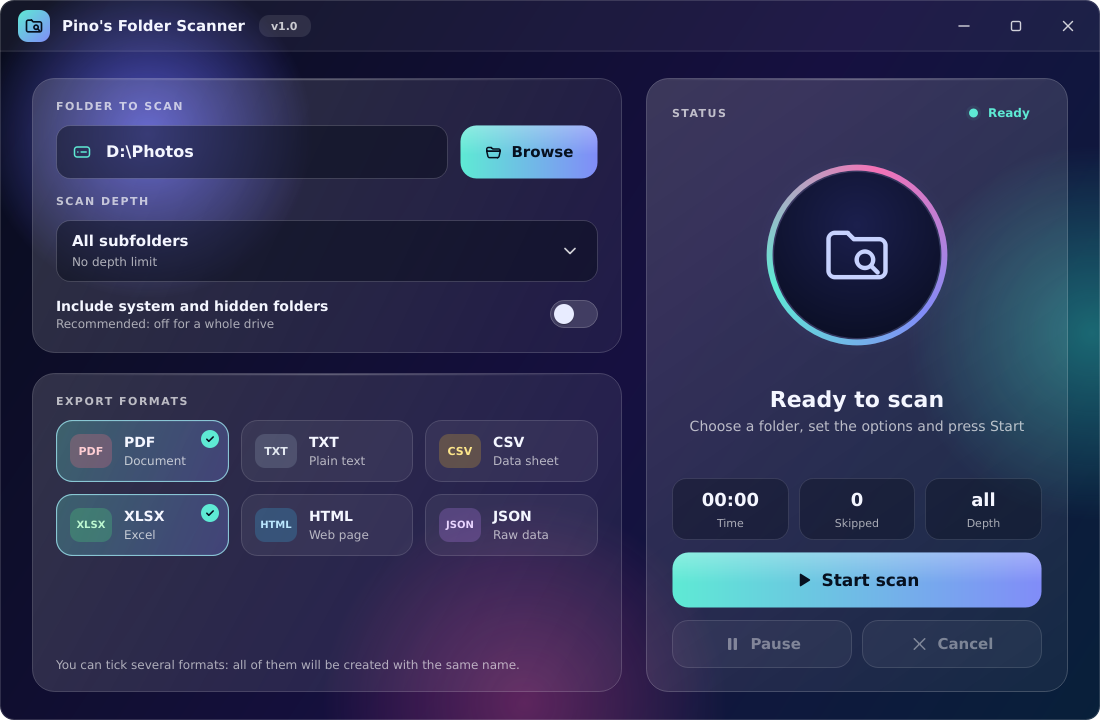
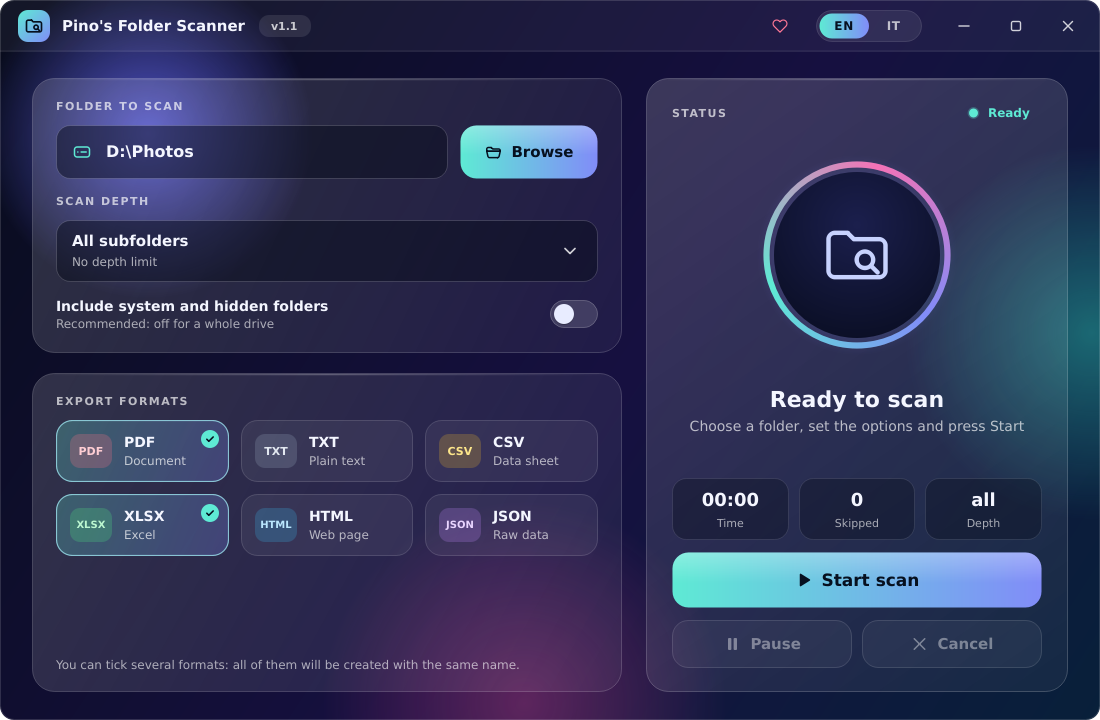
Mark 1.1 as released: README, changelog, roadmap and screenshots

diff --git a/README.md b/README.md
@@ -20,6 +20,8 @@ Pick a folder, choose how deep to look, tick the formats you want, press **Start
 - **Folders that cannot be read** (no permission, removed while scanning…) are skipped without stopping the scan, and listed in a "not scanned" section of the report.
 - **Symbolic links and junctions are not followed**, so there are no endless loops.
 - Long paths (over 260 characters) and Unicode names (accents, Cyrillic, Japanese…) are handled.
+- **Drag and drop**: drag a folder or a drive onto the window to choose it (a file stands for the folder that contains it).
+- **English and Italian** interface and reports; the language switch is in the title bar, and the language of Windows is used on the first start. More languages are planned.
 - Remembers your last settings.
 - Glass-style interface with animations.
 
@@ -29,11 +31,13 @@ Get `Pinos_Folder_Scanner.exe` from the [Releases](../../releases) page. It is a
 
 > **Windows SmartScreen / antivirus warning.** The executable is not code-signed, and single-file programs built with PyInstaller are sometimes flagged by mistake. If Windows shows a warning, click *More info* → *Run anyway*, or add the file to your antivirus exclusions. If you prefer not to trust a binary, build it yourself from this source (see below): it takes a couple of minutes.
 
+Every release also has a `Pinos_Folder_Scanner.exe.sha256` file. The executable is built automatically on GitHub from the public source, so you can compare the checksum of your download with that file.
+
 Developed for **Windows 11**; Windows 10 is expected to work too.
 
 ## How to use
 
-1. Press **Browse** (or type a path) and choose a drive or folder.
+1. Press **Browse** (or type a path, or drag a folder onto the window) and choose a drive or folder.
 2. Choose the **scan depth** from the menu.
 3. Leave *Include system and hidden folders* off (recommended for a whole drive), or turn it on.
 4. Tick one or more **export formats**.
@@ -75,8 +79,9 @@ python -m venv .venv
 | `app/scanner.py` | Scan engine: depth, filters, links, pause/cancel (no Qt needed) |
 | `app/worker.py` | Runs the scan and the export in a background thread |
 | `app/exporters.py` | One function per format (PDF, TXT, CSV, XLSX, HTML, JSON) |
-| `app/i18n.py` | All the texts of the program (English; a new language is one more block) |
+| `app/i18n.py` | All the texts of the program (English and Italian; a new language is one more block) |
 | `app/settings.py` | Settings remembered between runs |
+| `app/links.py` | The web link of the Ko-fi button (opened only when you click it) |
 | `app/window.py` | Main window, ties everything together |
 | `app/widgets.py` | The look: colours, glass cards, buttons, animated ring, icons |
 | `app/dialogs.py` | Message boxes in the same style |
@@ -84,6 +89,8 @@ python -m venv .venv
 | `assets/icon.ico` | Icon of the .exe (regenerate with `tools/make_icon.py`) |
 | `tools/render_states.py` | Saves images of the window in each state (used for the screenshots) |
 | `tests/` | Automated tests |
+| `.github/workflows/build.yml` | Runs the tests and builds the `.exe` on GitHub; attaches it to each release |
+| `ROADMAP.md`, `CHANGELOG.md` | What is planned and what changed in each version |
 
 Some easy changes:
 
@@ -98,15 +105,19 @@ python tests\test_core.py
 python tests\test_gui.py
 ```
 
-The first one tests scanning (depth, filters, links, permissions, pause/cancel) and all the exports; the second drives the window without showing it. They need no screen and write nothing outside a temporary folder.
+The first one tests scanning (depth, filters, links, permissions, pause/cancel) and all the exports; the second drives the window without showing it (start, pause, cancel, language switch, drag and drop…). They need no screen and write nothing outside a temporary folder.
 
 ## Roadmap
 
-See [ROADMAP.md](ROADMAP.md): Italian and more languages (Spanish, French, German, Portuguese, Dutch, Chinese), drag and drop, name filters and more are planned.
+See [ROADMAP.md](ROADMAP.md): more languages (Spanish, French, German, Portuguese, Dutch, Chinese), name filters and copying the list to the clipboard are planned. The changes of each version are in [CHANGELOG.md](CHANGELOG.md).
 
 ## Contributing
 
 Bug reports and ideas are welcome: please open an [issue](../../issues). For a bug, say what you did, what you expected, and attach `errors.log` if there is one.
+
+## Support
+
+The program is free and nothing is locked. If you find it useful, you can [support it on Ko-fi](https://ko-fi.com/thenormal) (or with the heart button in the title bar). Thank you!
 
 ## Third-party software
 

diff --git a/ROADMAP.md b/ROADMAP.md
@@ -7,7 +7,7 @@ The program stays free, and no feature is ever locked behind a donation.
 
 First public release: scan a drive or folder and export its subfolder list to PDF, TXT, CSV, XLSX, HTML or JSON.
 
-## 1.1 – Support and Italian (ready, not yet released)
+## 1.1 – Released: support and Italian
 
 - Ko-fi support: a small heart button in the program (opens the Ko-fi page in your browser, only when you click it; the program never connects to the internet by itself), a badge in the README and the **Sponsor** button of this repository.
 - Italian interface.

diff --git a/CHANGELOG.md b/CHANGELOG.md
@@ -2,7 +2,7 @@
 
 All notable changes to Pino's Folder Scanner. See also the [roadmap](ROADMAP.md).
 
-## 1.1 – ready, not yet released
+## 1.1 – 2026-11-26
 
 ### Added
 - Ko-fi support: a small heart button in the title bar that opens the Ko-fi page in your browser when you click it. The program still never connects to the internet by itself.
